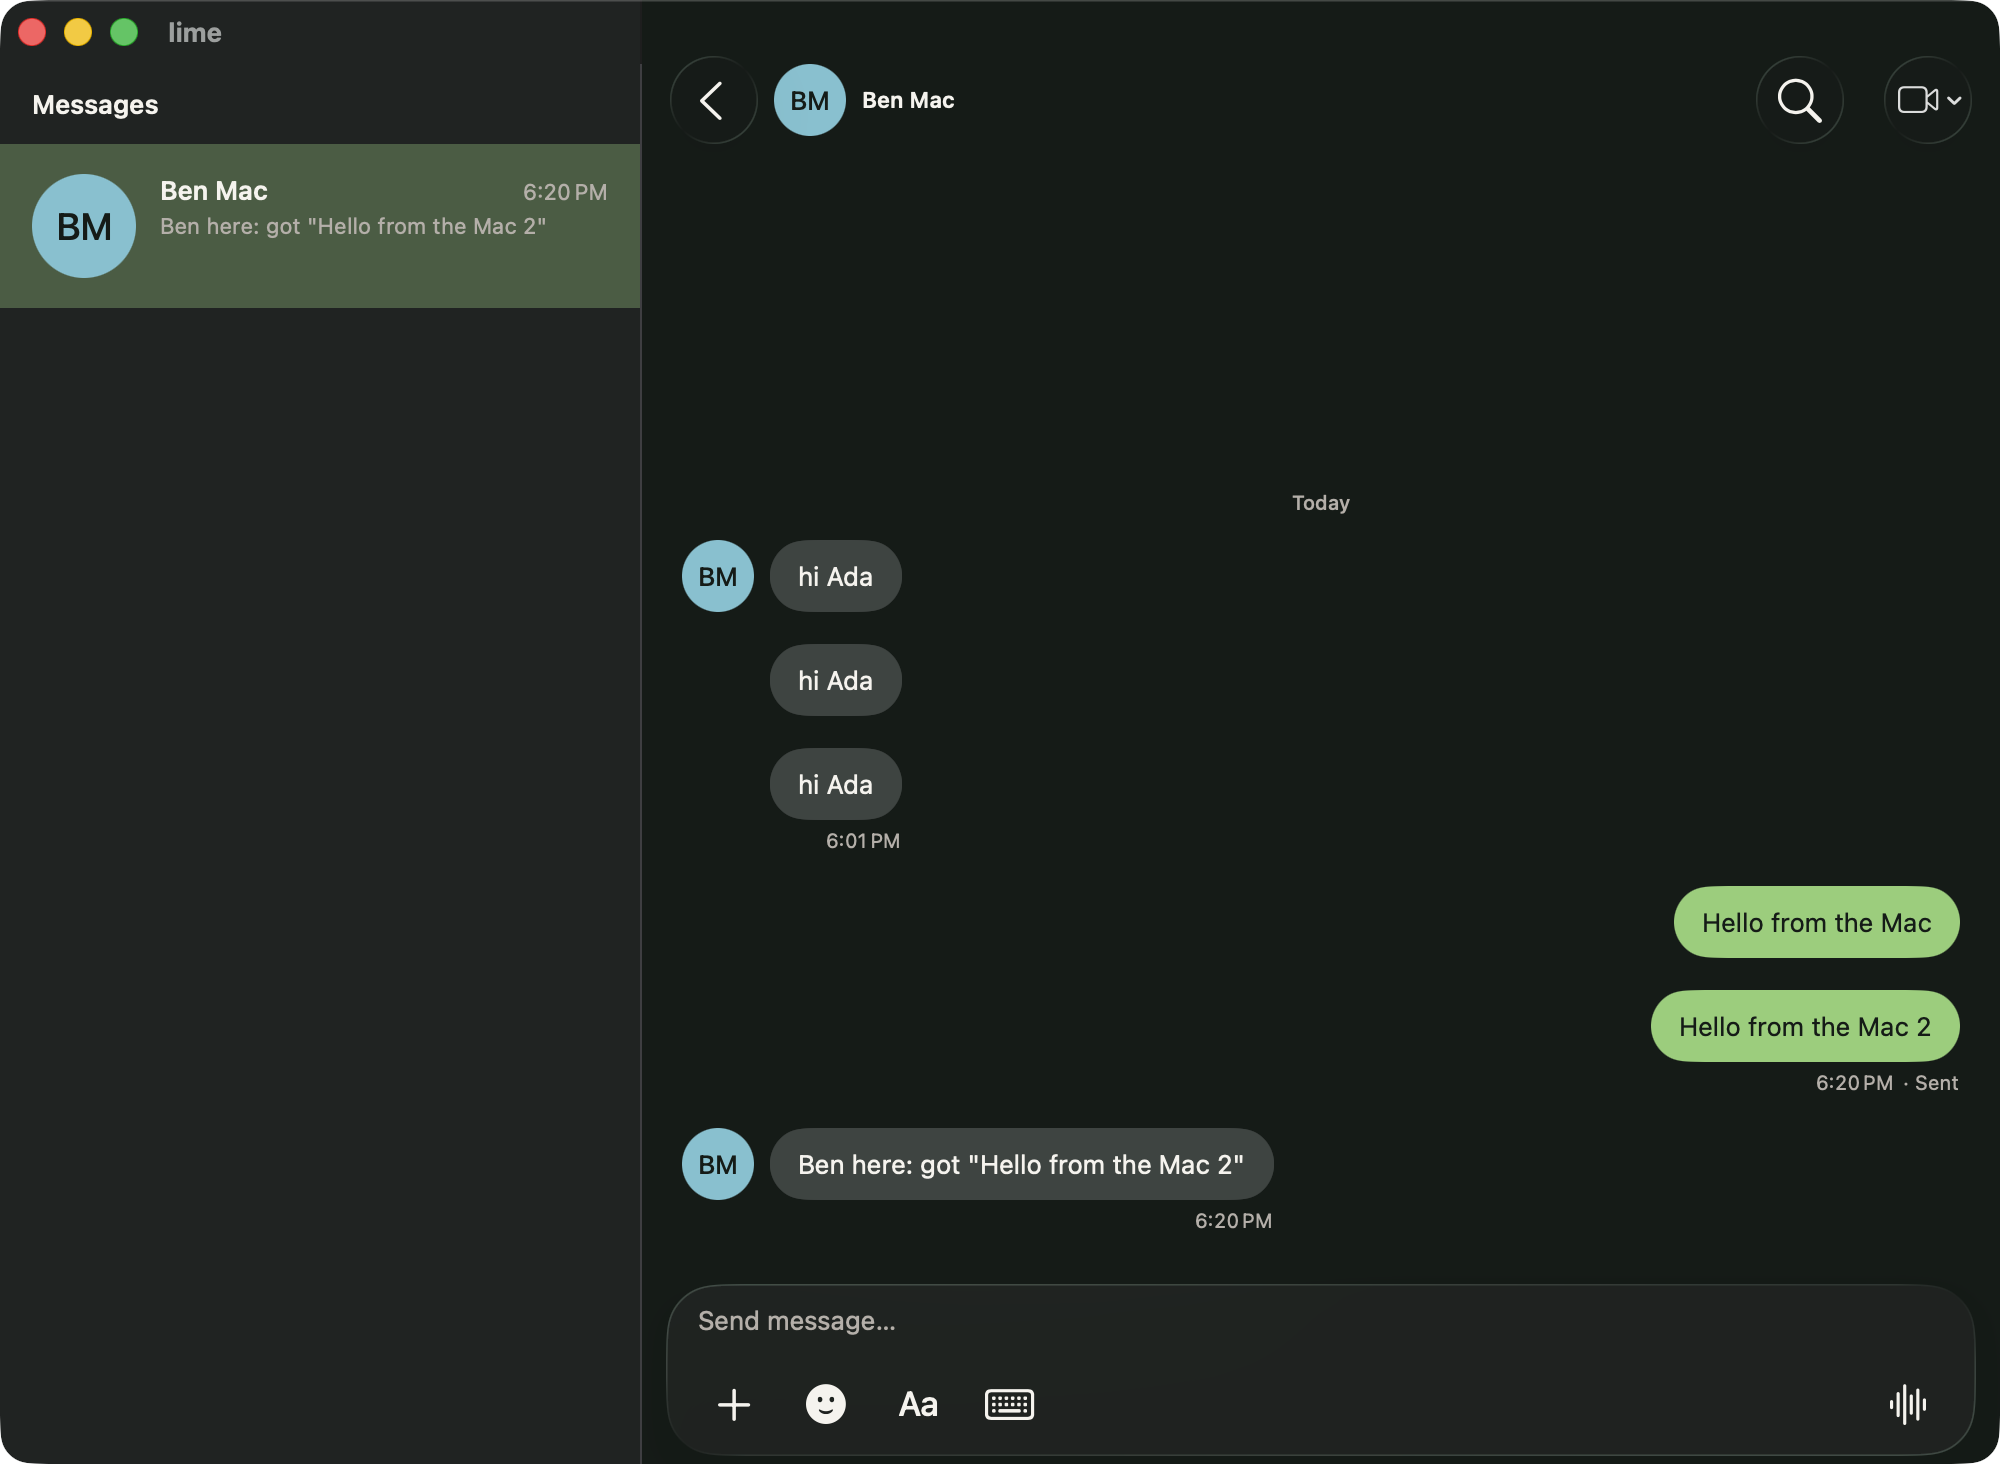
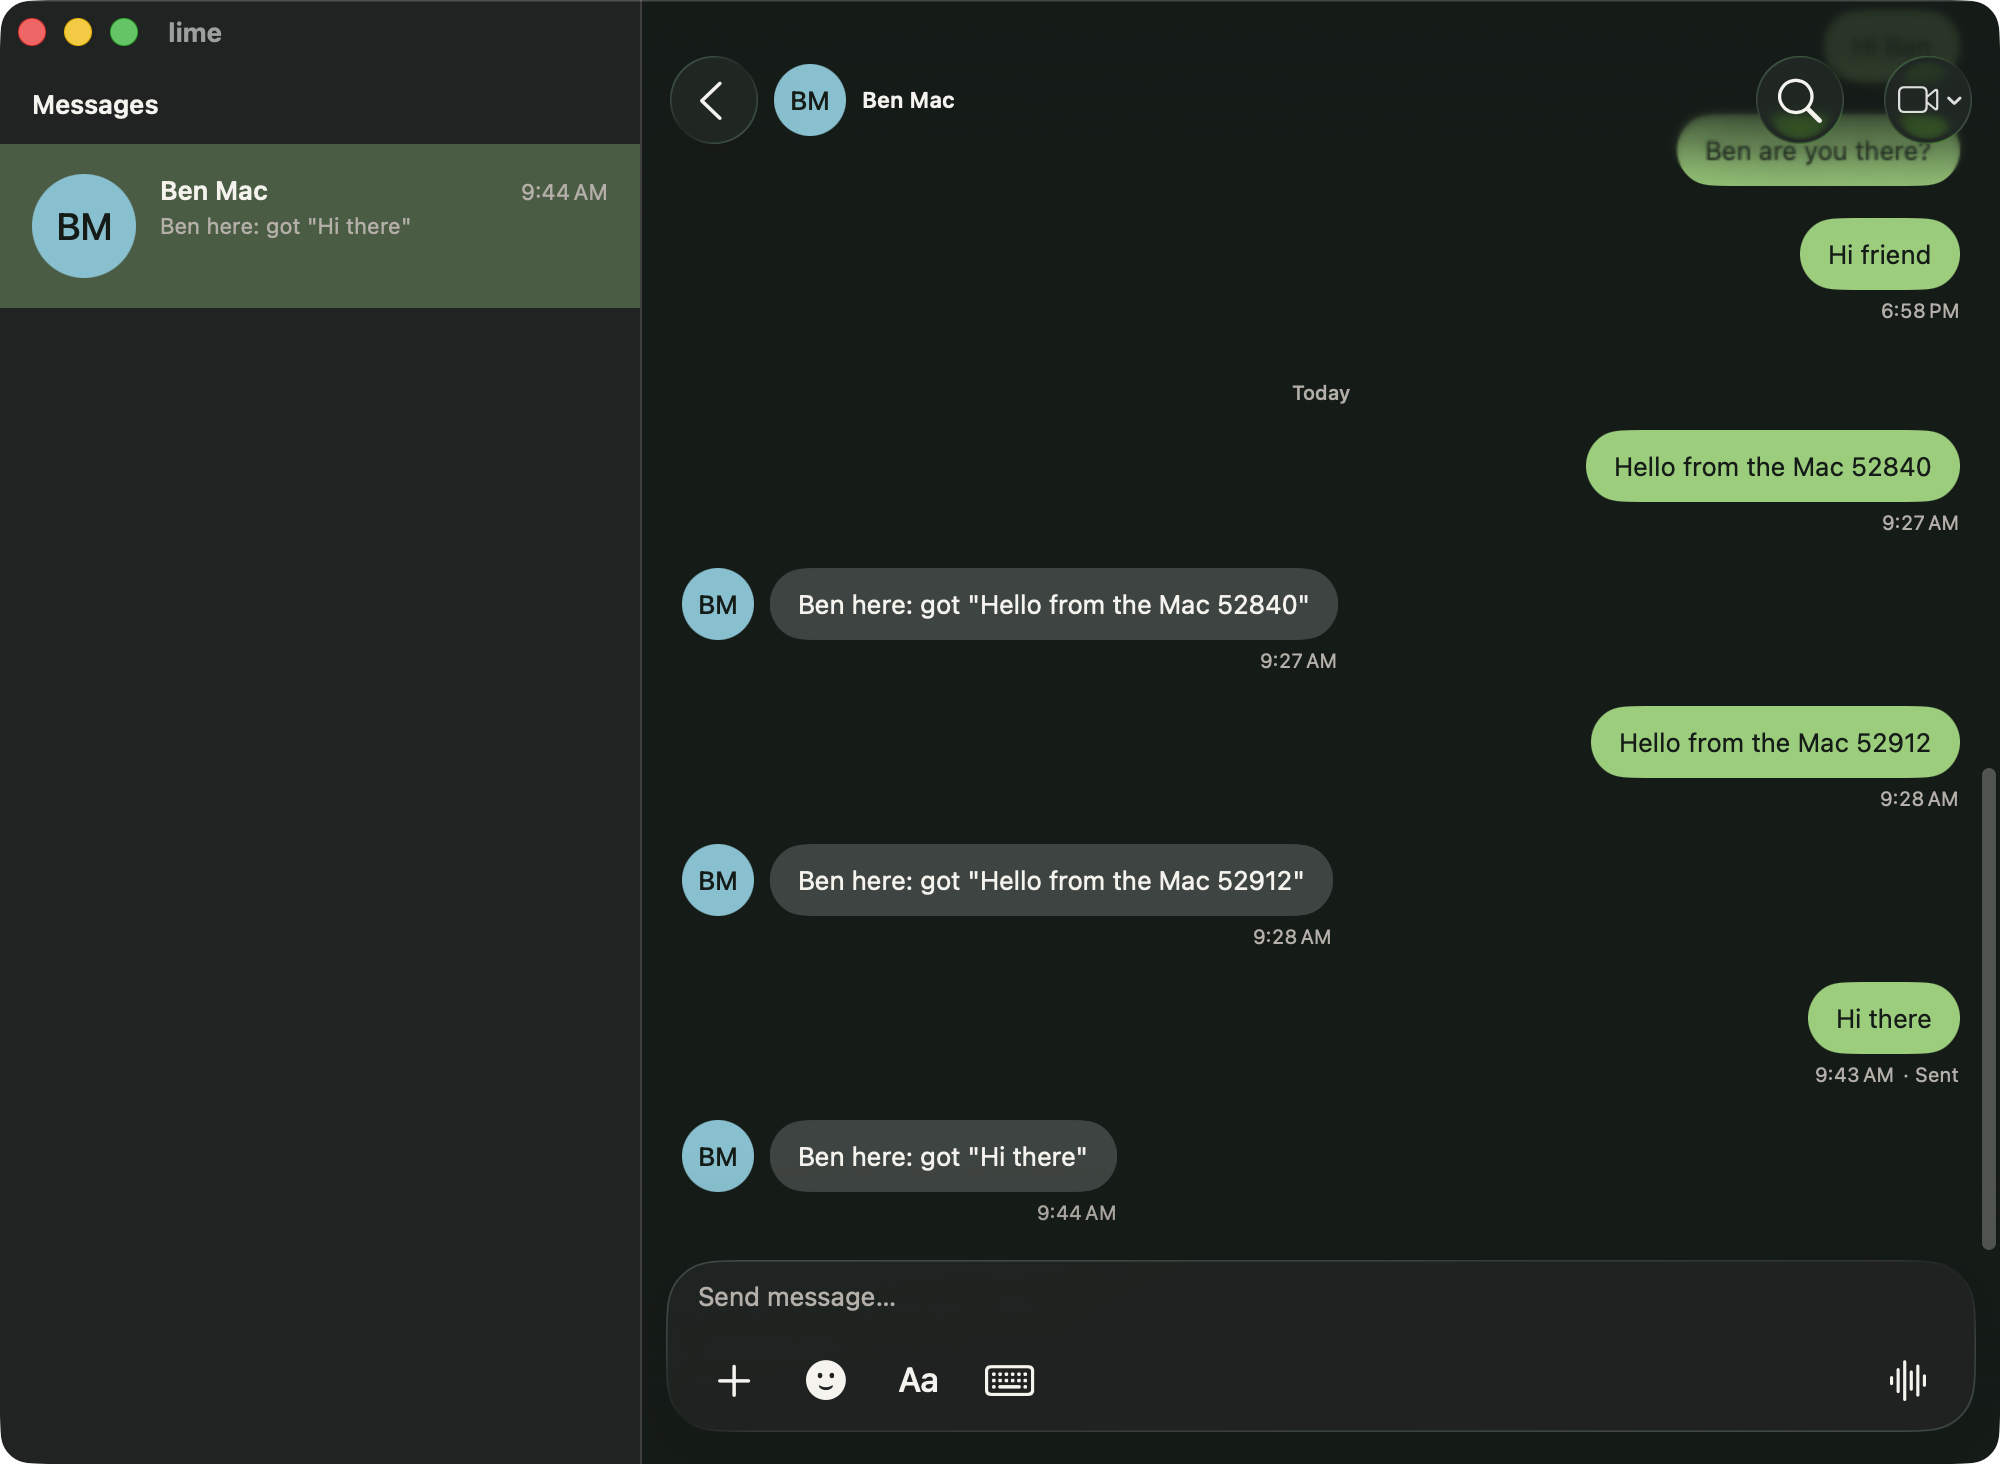
fix(mac): full-height hairline, space under the composer
The sidebar's wash and the hairline between the list and the chat now run through the title-bar area to the top of the window. A Mac window has no home-indicator safe area, which gives the composer its gap on iPhone, so the detail pane adds a 12 pt bottom inset inside its NavigationStack (outside the stack it had no effect). Screenshots replaced.

Brief: LIME-607

diff --git a/mac/Lime/MacRootView.swift b/mac/Lime/MacRootView.swift
@@ -55,8 +55,9 @@ private struct MacSignedInView: View {
             if nav.columns != .detailOnly {
                 MacSidebar()
                     .frame(width: 320)
-                    .background(Theme.surface.opacity(0.5))
-                Divider()
+                    // The wash and the hairline run the full height of the window, through the title-bar area (the list itself stays below it).
+                    .background(Theme.surface.opacity(0.5).ignoresSafeArea())
+                Divider().ignoresSafeArea(edges: .vertical)
             }
             MacDetail()
                 .frame(maxWidth: .infinity)
@@ -160,6 +161,8 @@ private struct MacDetail: View {
                         .frame(maxWidth: .infinity, maxHeight: .infinity).limeBackground()
                 }
             }
+            // A Mac window has no home-indicator safe area, which is what gives the composer its gap under it on iPhone: 12 pt, as in Messages.
+            .safeAreaInset(edge: .bottom, spacing: 0) { Color.clear.frame(height: 12) }
             .navigationDestination(for: Conversation.ID.self) { ChatView(conversationID: $0) }
             .navigationDestination(for: ChatTarget.self) { ChatView(conversationID: $0.conversationID, focusMessageID: $0.messageID, focusWords: $0.words) }
             .navigationDestination(for: ThreadTarget.self) { ThreadView(target: $0).limeBack() }

diff --git a/TEND-MAC.md b/TEND-MAC.md
@@ -124,3 +124,15 @@ For plot: **the three biggest gaps** (1) no own-device fan-out: sent messages, e
 **Side effects on staging:** my first run of the new script made new passwords for all three accounts (none were stored), which ended their old sessions once, and `--rotate-passwords` did it again during the check; the app and any running partner need a restart (`run.sh`, then the partner). Cleo's password was also changed by the probe, then replaced by the script.
 
 For plot: **no**: on staging a second password sign-in (same password) does not end the first session (A still refreshed after B signed in; only a password change ended a session), so the "sessions end on a fresh sign-in" risk was the test tooling's password rotation, not a Supabase setting. Production's setting is still not read, but a single-session limit would have shown the same on staging.
+
+## LIME-607 (2026-11-15): full-height hairline, space under the composer
+
+**What landed (one commit, `Brief: LIME-607`), `mac/Lime/MacRootView.swift` only:** (1) the sidebar's wash (`.background(Theme.surface.opacity(0.5).ignoresSafeArea())`) and the `Divider` (`.ignoresSafeArea(edges: .vertical)`) now run the full height of the window, through the title-bar area; the list and its "Messages" title stay below the traffic lights. (2) `MacDetail` gives its content a 12 pt bottom safe-area inset (`.safeAreaInset(edge: .bottom, spacing: 0) { Color.clear.frame(height: 12) }` on the `Group` inside the `NavigationStack`), so the composer sits about 16 pt above the window's bottom edge (the composer's own 4 pt plus 12). New screenshots replace `docs/design/mac/first-window-{light,dark}.png` (the Ben Mac chat open).
+
+**Survey.** The divider is a plain `Divider()` in an `HStack`, clipped by the title bar's top safe area. On iPhone the composer's gap under it is its own 4 pt (`ChatComposer.swift:150-153`) plus the home-indicator safe area, which a Mac window does not have. **No `ios/` edit.**
+
+**One attempt that did not work:** `.safeAreaPadding(.bottom, 12)` on `MacDetail` (outside the `NavigationStack`) changed nothing (the composer stayed 4 pt from the edge); the chat's bottom bar does not see a safe-area padding set outside the stack. The inset inside the stack does.
+
+**Verification.** Debug build, 0 warnings in `mac/` (touched file rebuilt); `mac/test.sh` passed (14.2 s; XCTest's runtime "main thread" notice from the existing test is not a build warning). Light and dark window-only screenshots checked by eye: the hairline touches the top, the composer has a gap, nothing else moved. The system appearance was switched to dark for the dark shot and set back to light.
+
+For plot: the hairline reaches the top of the window and the composer has about 16 pt under it, all in `mac/`; nothing needed from plot-iOS. Note for any future `ios/` change to the bottom bar: a safe-area inset must sit inside the `NavigationStack` to reach it.
